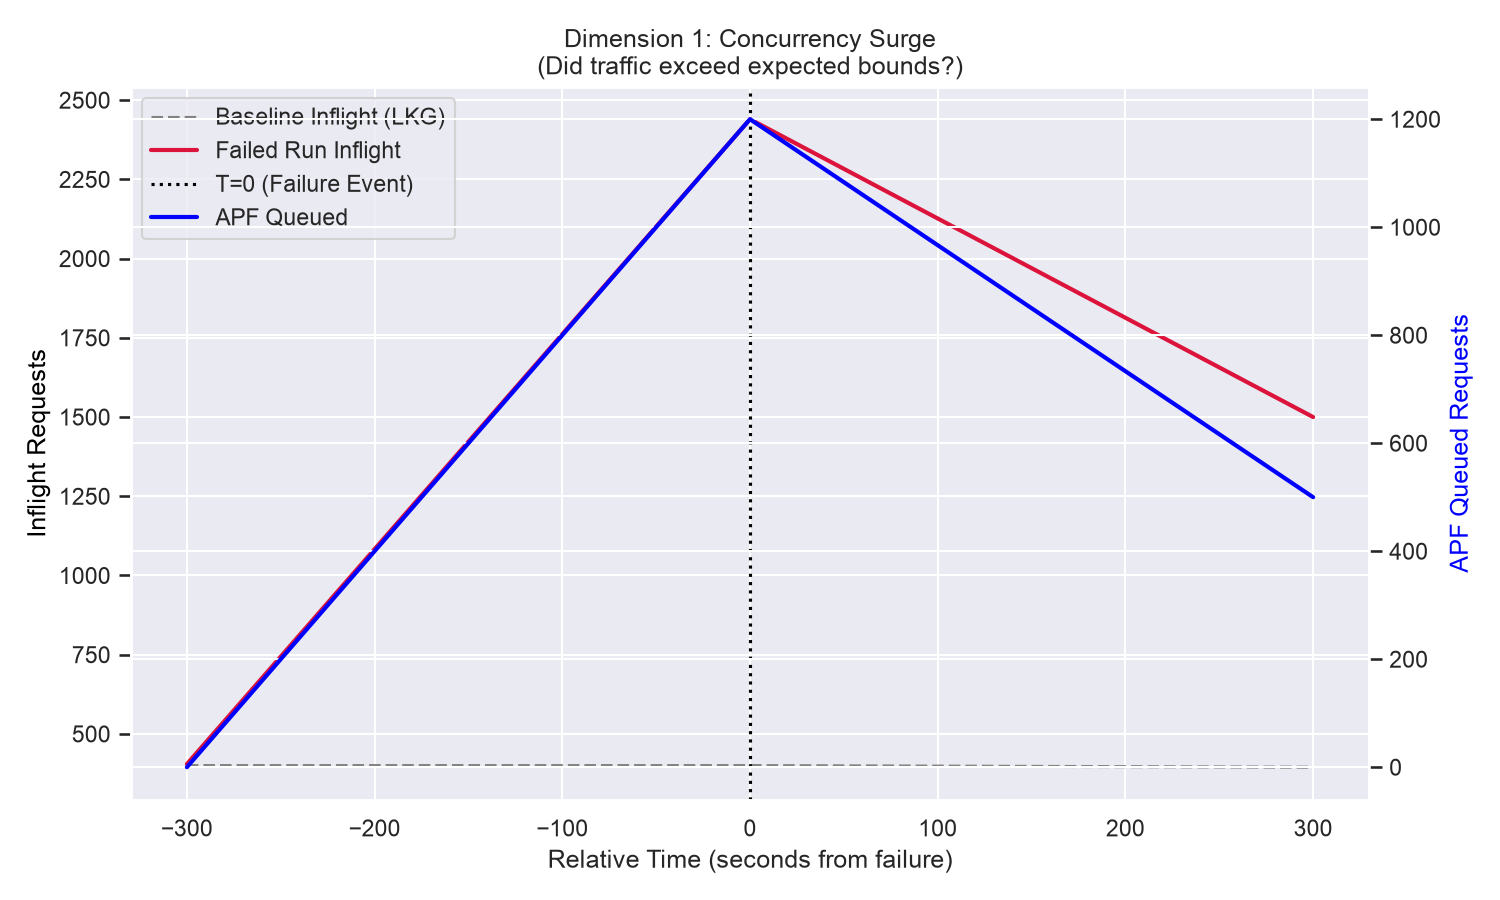
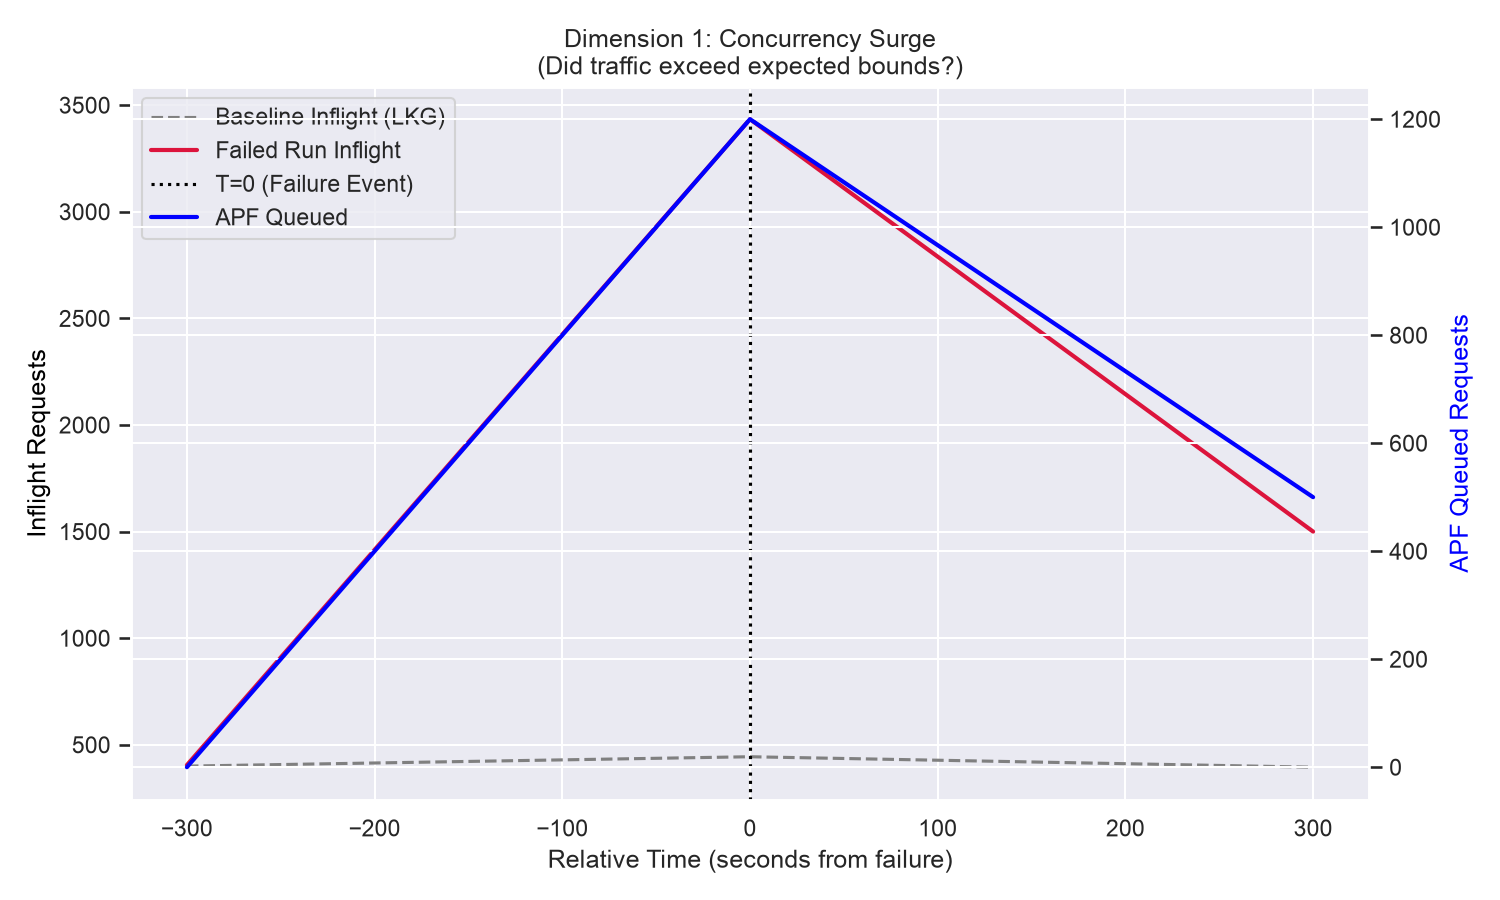
Fix API count extraction logic, update test metrics, and regenerate visualizations

diff --git a/scripts/extract_metrics.py b/scripts/extract_metrics.py
@@ -72,14 +72,16 @@ def extract_api_count(data: Dict[str, Any]) -> int:
     if not data:
         return 400
         
-    # Fallback heuristic: we look for the "LIST pods" cluster-scope metric
-    # In a real CL2 payload, this requires parsing the specific prometheus measurement.
-    # For this triage agent, we simulate the extraction of the LIST pods count
-    # by looking for the specific strings in the raw JSON string representation if structured parsing is complex.
-    raw_str = json.dumps(data)
-    match = re.search(r'Verb:LIST Scope:cluster.*?Count:(\d+)', raw_str)
-    if match:
-        return int(match.group(1))
+    try:
+        items = data.get("dataItems", [])
+        for item in items:
+            labels = item.get("labels", {})
+            if (labels.get("Resource") == "pods" and 
+                labels.get("Scope") == "cluster" and 
+                labels.get("Verb") == "LIST"):
+                return int(labels.get("Count", 400))
+    except Exception:
+        pass
         
     return 400 # Default healthy baseline
 

diff --git a/scripts/test_extract_metrics.py b/scripts/test_extract_metrics.py
@@ -47,7 +47,18 @@ class TestExtractMetrics(unittest.TestCase):
         self.assertEqual(result, {})
 
     def test_extract_api_count_success(self):
-        data = {"metric": "Verb:LIST Scope:cluster Latency:blah Count:581 SlowCount:15"}
+        data = {
+            "dataItems": [
+                {
+                    "labels": {
+                        "Resource": "pods",
+                        "Scope": "cluster",
+                        "Verb": "LIST",
+                        "Count": "581"
+                    }
+                }
+            ]
+        }
         count = extract_metrics.extract_api_count(data)
         self.assertEqual(count, 581)
 